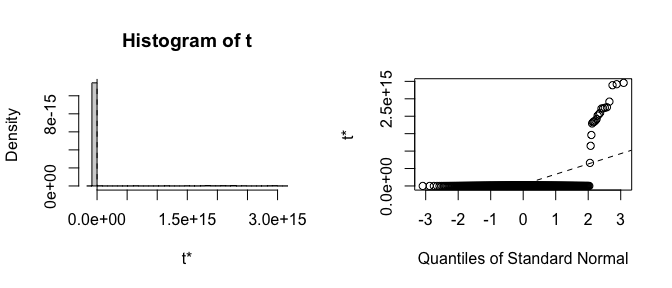
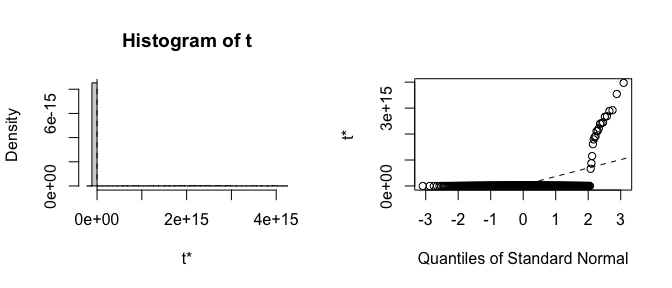
readme updates for submission

diff --git a/README.md b/README.md
@@ -24,7 +24,7 @@ normal, bias-corrected percentile, etc.), and `vcovFWB()`, a drop-in for
 `sandwich::vcovBS()` for computing a coefficient covariance matrix from
 a regression model using the FWB.
 
-Check out the `fwb` [website](https://ngreifer.github.io/fwb)!
+Check out the `fwb` [website](https://ngreifer.github.io/fwb/)!
 
 ## Installation
 
@@ -125,9 +125,9 @@ coeftest(fit, vcov = sandwich::vcovBS)[1:3,]
 # The fractional weighted bootstrap succeeds
 coeftest(fit, vcov = vcovFWB)[1:3,]
 #>              Estimate Std. Error   z value     Pr(>|z|)
-#> (Intercept) -6.904101  1.8276925 -3.777496 1.584130e-04
-#> spontaneous  3.230286  0.7277096  4.438976 9.038774e-06
-#> induced      2.190303  0.6857453  3.194047 1.402932e-03
+#> (Intercept) -6.904101  1.8282103 -3.776426 1.590946e-04
+#> spontaneous  3.230286  0.7282145  4.435899 9.168901e-06
+#> induced      2.190303  0.6856374  3.194549 1.400493e-03
 ```
 
 We can also perform cluster-robust inference by bootstrapping the
@@ -138,9 +138,9 @@ FWB is still more accurate.)
 # Including stratum membership as a clustering variable
 coeftest(fit, vcov = vcovFWB, cluster = ~stratum)[1:3,]
 #>              Estimate Std. Error   z value     Pr(>|z|)
-#> (Intercept) -6.904101  1.6495855 -4.185355 2.847204e-05
-#> spontaneous  3.230286  0.7628024  4.234761 2.287951e-05
-#> induced      2.190303  0.6682861  3.277493 1.047335e-03
+#> (Intercept) -6.904101  1.5157744 -4.554834 5.242687e-06
+#> spontaneous  3.230286  0.6993316  4.619105 3.853991e-06
+#> induced      2.190303  0.6204237  3.530334 4.150356e-04
 ```
 
 Let’s look more in-depth at the results of the traditional and
@@ -166,9 +166,9 @@ boot_est
 #> 
 #> Bootstrap Statistics :
 #>      original        bias     std. error
-#> t1* -6.904101 -2.385907e+19 5.368296e+20
-#> t2*  3.230286  4.072669e+13 2.952474e+14
-#> t3*  2.190303  2.730053e+13 2.009225e+14
+#> t1* -6.904101 -2.848293e+21 9.002587e+22
+#> t2*  3.230286  4.232722e+13 3.240252e+14
+#> t3*  2.190303  2.707355e+13 2.076940e+14
 
 fwb_est <- fwb(infert, fit_fun, R = 999, verbose = FALSE)
 fwb_est
@@ -179,9 +179,9 @@ fwb_est
 #> 
 #> Bootstrap Statistics :
 #>      original       bias std. error
-#> t1* -6.904101 -1.6181838  1.8461133
-#> t2*  3.230286  0.6611793  0.7424671
-#> t3*  2.190303  0.5056567  0.6588132
+#> t1* -6.904101 -1.5663837  1.8587672
+#> t2*  3.230286  0.6722459  0.7356135
+#> t3*  2.190303  0.5044327  0.6825087
 ```
 
 Already the bias and standard errors indicate problems with the
